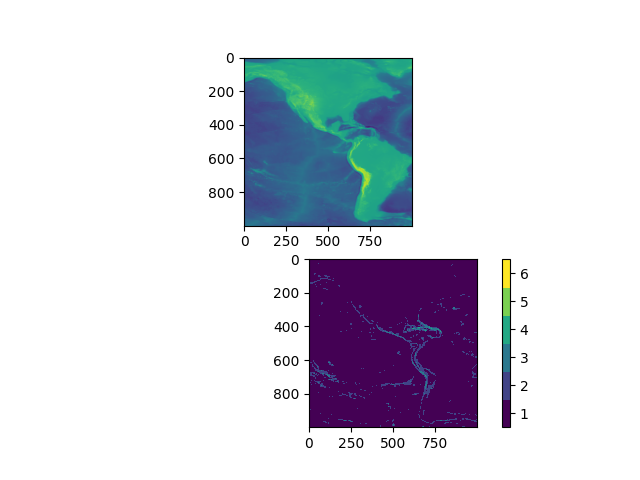
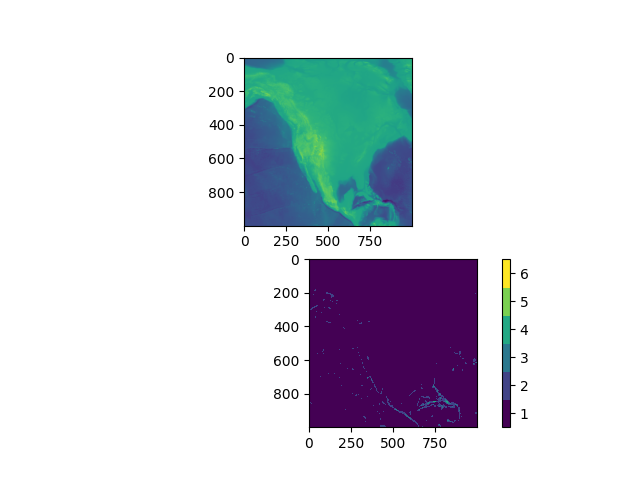
only north america

diff --git a/examples/getting_and_printing_data.py b/examples/getting_and_printing_data.py
@@ -9,6 +9,8 @@ import matplotlib as mpl
 # Let's just ignore warnings
 warnings.filterwarnings('ignore')
 
+# force matplotlib not to use any Xwindows backend
+mpl.use('Agg')
 
 def split(array, nrows, ncols):
     """Splits big matrix into array of submatrices (chunks)"""
@@ -31,7 +33,7 @@ CHUNK_SIZE = 5
 node = TerrainTiles(tile_format='geotiff', zoom=5)
 
 # create coordinates to get tiles
-coords = Coordinates([clinspace(75, -60, 1000), clinspace(-155, -35, 1000)], dims=['lat', 'lon'])
+coords = Coordinates([clinspace(75, 10, 1000), clinspace(-155, -50, 1000)], dims=['lat', 'lon'])
 
 # evaluate node
 ev = node.eval(coords)
@@ -69,4 +71,9 @@ cbar = plt.colorbar()
 cbar.set_ticks([1.5, 2.5, 3.5, 4.5, 5.5, 6.5])
 cbar.set_ticklabels([1, 2, 3, 4, 5, 6])
 
+# saving results to .png file
+plt.savefig('result.png')
+
 plt.show()
+
+
